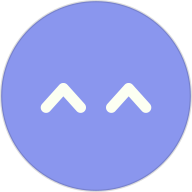
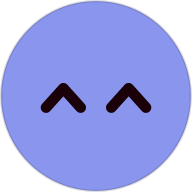
Nami photo on white background; Katerina black eyes on Scrubs Blue

Changed region(s): [[0.5312, 0.4062, 0.8125, 0.5938], [0.1875, 0.4062, 0.4688, 0.5938]]

diff --git a/src/orb.js b/src/orb.js
@@ -20,7 +20,6 @@ export const PALETTE = {
   snoutBlack: '#1A0009',
   cocoaRust: '#2B1A16',
   electricCobalt: '#637BFF',
-  namiBlue: '#0D0FDD', // reserved for Nami's photo background (not used by the other agents)
 };
 const P = PALETTE;
 
@@ -31,14 +30,13 @@ export const ORB_COLORS = {
   cobalt: { label: 'Cobalt, yeux noirs', bg: P.electricCobalt, ink: P.snoutBlack },
   noir: { label: 'Noir, yeux jaunes', bg: P.snoutBlack, ink: P.tennisYellow },
   jaune: { label: 'Jaune, yeux noirs', bg: P.tennisYellow, ink: P.snoutBlack },
-  bleu: { label: 'Bleu, yeux blancs', bg: P.scrubsBlue, ink: P.clawWhite },
+  bleu: { label: 'Bleu, yeux noirs', bg: P.scrubsBlue, ink: P.snoutBlack },
   bleuclair: { label: 'Bleu clair, yeux cacao', bg: P.scrubsBlueLight, ink: P.cocoaRust },
   cacao: { label: 'Cacao, yeux bleu clair', bg: P.cocoaRust, ink: P.scrubsBlueLight },
   blanc: { label: 'Blanc, yeux noirs', bg: P.clawWhite, ink: P.snoutBlack },
   // Spare combinations (new agents).
   cobaltjaune: { label: 'Cobalt, yeux jaunes', bg: P.electricCobalt, ink: P.tennisYellow },
   noirblanc: { label: 'Noir, yeux blancs', bg: P.snoutBlack, ink: P.clawWhite },
-  bleunoir: { label: 'Bleu, yeux noirs', bg: P.scrubsBlue, ink: P.snoutBlack },
   jaunecacao: { label: 'Jaune, yeux cacao', bg: P.tennisYellow, ink: P.cocoaRust },
   cacaojaune: { label: 'Cacao, yeux jaunes', bg: P.cocoaRust, ink: P.tennisYellow },
   blancbleu: { label: 'Blanc, yeux cobalt', bg: P.clawWhite, ink: P.electricCobalt },
